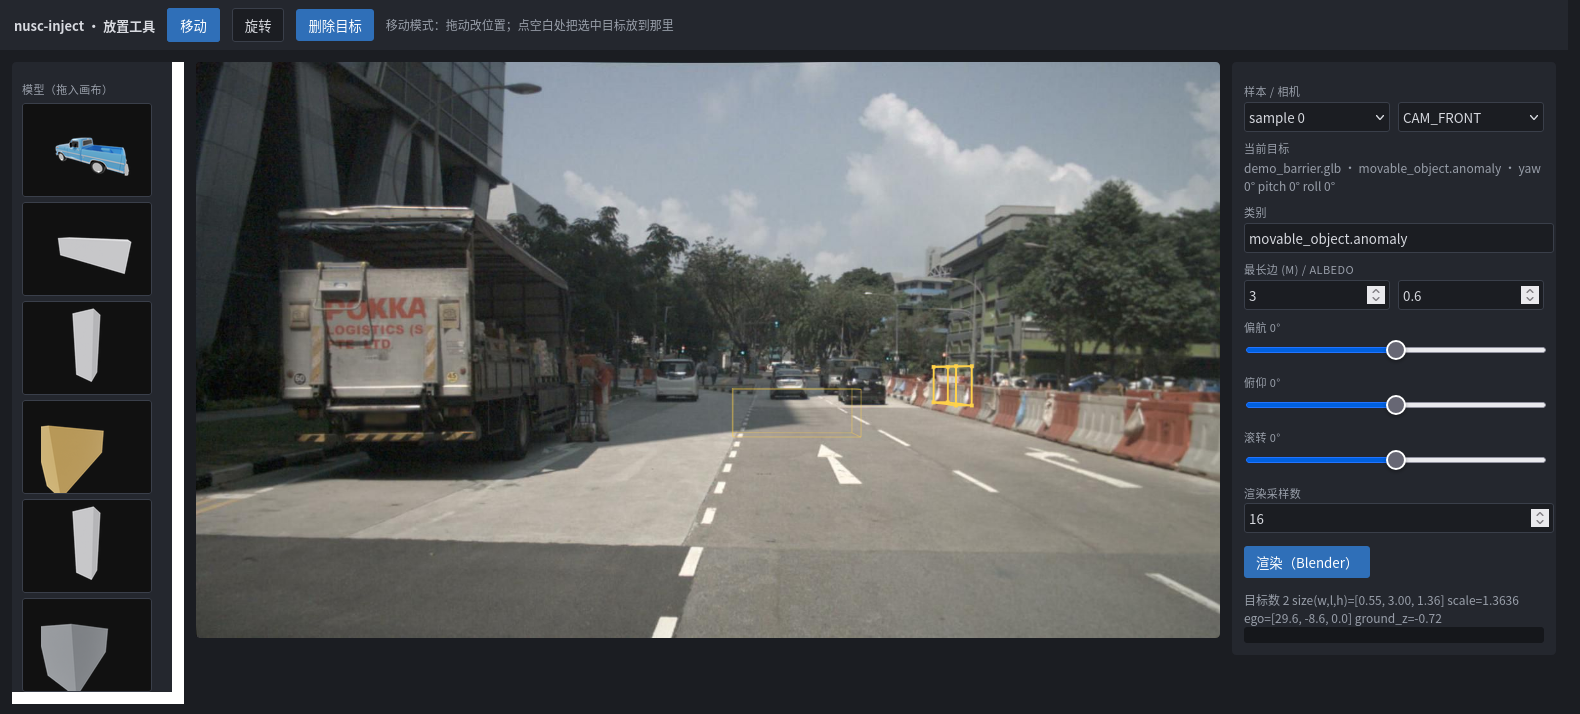
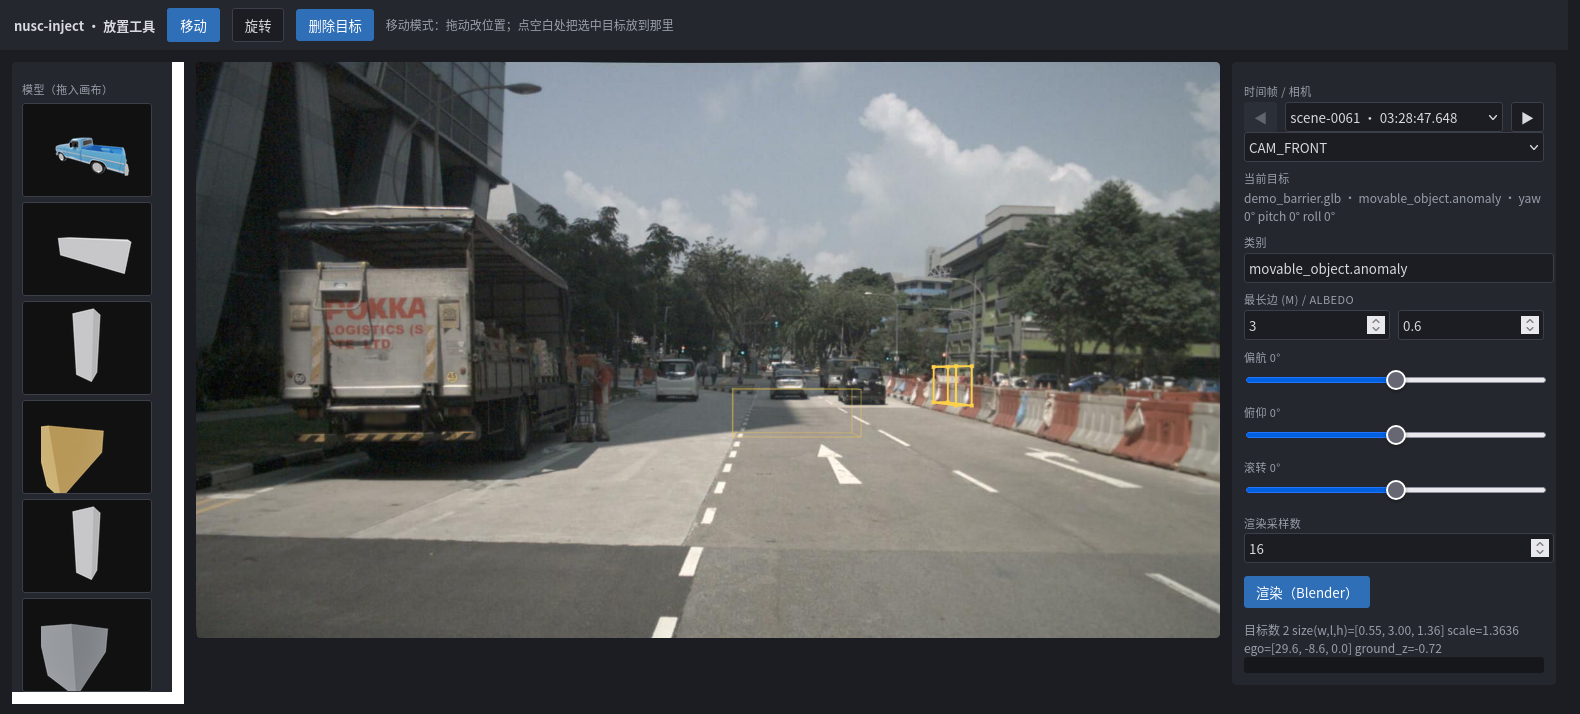
Feat: 时间帧导航——逐帧 ◀▶ 与场景·时刻标签
原先只有「样本」下拉：v1.0-mini 的 404 个关键帧按 n//200 抽成 202 项、标签是裸的
「sample N」、也没有逐帧前进后退——能换帧，但不像在翻时间轴。

改成：
- ◀ ▶ 逐帧前进后退，沿 nuScenes 自己的 prev/next 链走，到场景边界自动禁用
  （不悄悄跳进下一场景）。
- 下拉列出全部 404 个关键帧，标签是「场景 · 时刻」（scene-0061 · 03:28:47.648），
  可直接跳。prev/next 来自 sample 记录，所以步进与数据集的真实关键帧链一致。

后端 meta_info 的 samples 从 [0, 2, 4, …] 改为每帧一条 {i, prev, next, label}；
前端加 gotoSample() 统一处理下拉与按钮（换帧后重新载入点云与图像，画布上的目标
保持不变、线框重新投影）。

WebDriver 实测：404 项、首帧 prev 禁用、next 走 0→4 标签跟着变、末帧 next 禁用
且 prev 可用回退到 402。159 tests 过，8 张截图按新布局重拍
（ui_overview/ui_result 的黄框像素=0 校验仍通过）。

Changed region(s): [[0.7753, 0.1232, 0.9924, 0.9244]]

diff --git a/scripts/annotate_ui.py b/scripts/annotate_ui.py
@@ -300,14 +300,30 @@ class Workspace:
             camera_channel.run_blender(self.cfg, job, dir_)
         return png
 
+    def sample_nav(self) -> list:
+        """One entry per keyframe: index, prev/next index, and a scene · time label.
+
+        prev/next come from the nuScenes sample records, so stepping follows the
+        real keyframe chain and stops at a scene boundary (no silent jump into
+        the next scene).
+        """
+        out = []
+        for i, s in enumerate(self.meta.samples):
+            scene = self.meta.scene[s["scene_token"]]["name"]
+            t = s["timestamp"] / 1e6
+            hh, mm = int(t // 3600) % 24, int(t // 60) % 60
+            out.append({"i": i,
+                        "prev": self.meta.sample_idx_by_token.get(s["prev"]),
+                        "next": self.meta.sample_idx_by_token.get(s["next"]),
+                        "label": f"{scene} · {hh:02d}:{mm:02d}:{t % 60:06.3f}"})
+        return out
+
     def meta_info(self) -> dict:
         models = sorted(str(p.relative_to(ROOT))
                         for p in (ROOT / "data" / "models").glob("*.glb"))
         # put the default model first: the rest are demo / axis fixtures
         models.sort(key=lambda p: (not p.endswith("/model.glb"), p))
-        n = len(self.meta.samples)
-        step = max(1, n // 200)
-        return {"samples": list(range(0, n, step)),
+        return {"samples": self.sample_nav(),
                 "cams": list(self.cfg["dataset"]["cam_channels"]),
                 "models": models,
                 "categories": sorted({c["name"] for c in self.meta.categories.values()}),
@@ -366,6 +382,8 @@ PAGE = r"""<!DOCTYPE html>
  button:disabled{background:#3a3f4a;cursor:default}
  .mode{background:#1b1d22;color:#d8dae0;border:1px solid #3a3f4a}
  .mode.on{background:#2f6fb8;border-color:#2f6fb8;color:#fff}
+ .mini{padding:4px 9px;background:#1b1d22;color:#d8dae0;border:1px solid #3a3f4a}
+ .mini:disabled{opacity:.35;cursor:default}
  #hint{color:#9aa0ab;font-size:12px}
  .small{font-size:12px;color:#9aa0ab}
  #log{white-space:pre-wrap;font-family:ui-monospace,monospace;font-size:11px;background:#15171b;padding:8px;border-radius:3px;max-height:150px;overflow:auto}
@@ -396,8 +414,10 @@ PAGE = r"""<!DOCTYPE html>
     <img id="result" alt="render result">
   </div>
   <aside>
-    <label>样本 / 相机</label>
-    <div class="row"><select id="idx"></select><select id="cam"></select></div>
+    <label>时间帧 / 相机</label>
+    <div class="row"><button id="prevF" class="mini" title="上一帧">◀</button
+      ><select id="idx"></select><button id="nextF" class="mini" title="下一帧">▶</button></div>
+    <div class="row"><select id="cam"></select></div>
     <label>当前目标</label>
     <div id="selinfo" class="small">（未选中——先拖一个目标进来，或点画布上的线框）</div>
     <label>类别</label><input id="category" type="text" disabled>
@@ -556,6 +576,14 @@ async function loadFrame() {
   };
   img.src = URL.createObjectURL(blob);
 }
+function gotoSample(i) {
+  const s = meta.samples.find(x => x.i === i);
+  if (!s) return;
+  $('idx').value = String(i);
+  $('prevF').disabled = s.prev === null;     // scene boundary: no silent jump
+  $('nextF').disabled = s.next === null;
+  loadFrame();
+}
 
 // -------------------------------------------------------------- controls
 function syncControls() {
@@ -702,7 +730,15 @@ for (const id of ['yaw', 'pitch', 'roll']) {
 for (const id of ['dim', 'albedo', 'category']) {
   $(id).addEventListener('change', () => { readControls(); schedule(); });
 }
-$('idx').addEventListener('change', loadFrame);
+$('idx').addEventListener('change', () => gotoSample(+$('idx').value));
+$('prevF').addEventListener('click', () => {
+  const s = meta.samples.find(x => x.i === +$('idx').value);
+  if (s && s.prev !== null) gotoSample(s.prev);
+});
+$('nextF').addEventListener('click', () => {
+  const s = meta.samples.find(x => x.i === +$('idx').value);
+  if (s && s.next !== null) gotoSample(s.next);
+});
 $('cam').addEventListener('change', loadFrame);
 $('modeMove').addEventListener('click', () => setMode('move'));
 $('modeRotate').addEventListener('click', () => setMode('rotate'));
@@ -733,13 +769,14 @@ $('result').addEventListener('click', () => { $('result').style.display = 'none'
 (async () => {
   const m = await (await fetch('/api/meta')).json();
   meta = m;
-  $('idx').innerHTML = m.samples.map(i => `<option value="${i}">sample ${i}</option>`).join('');
+  $('idx').innerHTML = m.samples.map(s =>
+    `<option value="${s.i}">${s.label}</option>`).join('');
   $('cam').innerHTML = m.cams.map(c => `<option>${c}</option>`).join('');
   $('category').value = m.default_category;
   buildPalette(m);
   setMode('move');
   window.__ui = () => ({objects, selected, mode, state});   // automation hook
-  loadFrame();
+  gotoSample(m.samples[0].i);
 })();
 </script>
 </body>

diff --git a/docs/placement-ui.md b/docs/placement-ui.md
@@ -66,8 +66,10 @@ python scripts/annotate_ui.py --port 9000 --open
 
 ## 2. 操作流程
 
-1. **选样本 / 相机**：样本下拉按 `n // 200` 步长抽样——v1.0-mini 有 404 个关键帧
-   样本，步长 2、共 202 项，**不是**逐个列出。要精确到某个样本号请改配置跑 `run_p0.py`。
+1. **选时间帧 / 相机**：下拉列出**全部 404 个关键帧**，标签是 `场景 · 时刻`
+   （如 `scene-0061 · 03:28:47.648`），可直接跳。旁边 **◀ ▶ 逐帧前进后退**——
+   沿 nuScenes 自己的 `prev`/`next` 链走，到场景边界自动禁用（不会悄悄跳进下一场景）。
+   换帧会重新载入点云与图像，画布上的目标保持不变、线框重新投影。
 2. **拖入目标**：从左侧素材面板把模型缩略图（或类目 chip）拖到画布上松手。
    拖到**已有目标的线框上**则改那个目标的模型/类别；拖到空地则是插入一个新目标。
 3. **移动**（默认模式）：拖动目标改位置；点空白处把选中目标放到那里。
@@ -92,7 +94,7 @@ python scripts/annotate_ui.py --port 9000 --open
 | 删除目标 | — | — | 移除当前选中的目标 |
 | 素材面板 · 模型缩略图 | `data/models/*.glb` | `model.path` | 拖到画布插入 / 拖到目标上换模型 |
 | 素材面板 · 类目 chip | nuScenes 23 个类目 | `model.category` | 拖到画布插入 / 拖到目标上改类目 |
-| 样本 / 相机 | `sample 0` / `CAM_FRONT` | `dataset.sample_index` | 换样本会重新载入点云与图像 |
+| 时间帧（◀ ▶ + 下拉） | `scene-0061 · 03:28:47.648` | `dataset.sample_index` | 404 个关键帧全列；◀▶ 逐帧走 `prev`/`next`，场景边界禁用 |
 | 当前目标 | — | — | 显示选中目标的模型·类目·姿态 |
 | 类别 | `movable_object.anomaly` | `model.category` | 完整 nuScenes 类目名 |
 | 最长边 (m) | `3.0` | `model.target_max_dim_m` | `scale = 最长边 / 模型最长边`；**新目标继承当前值** |
